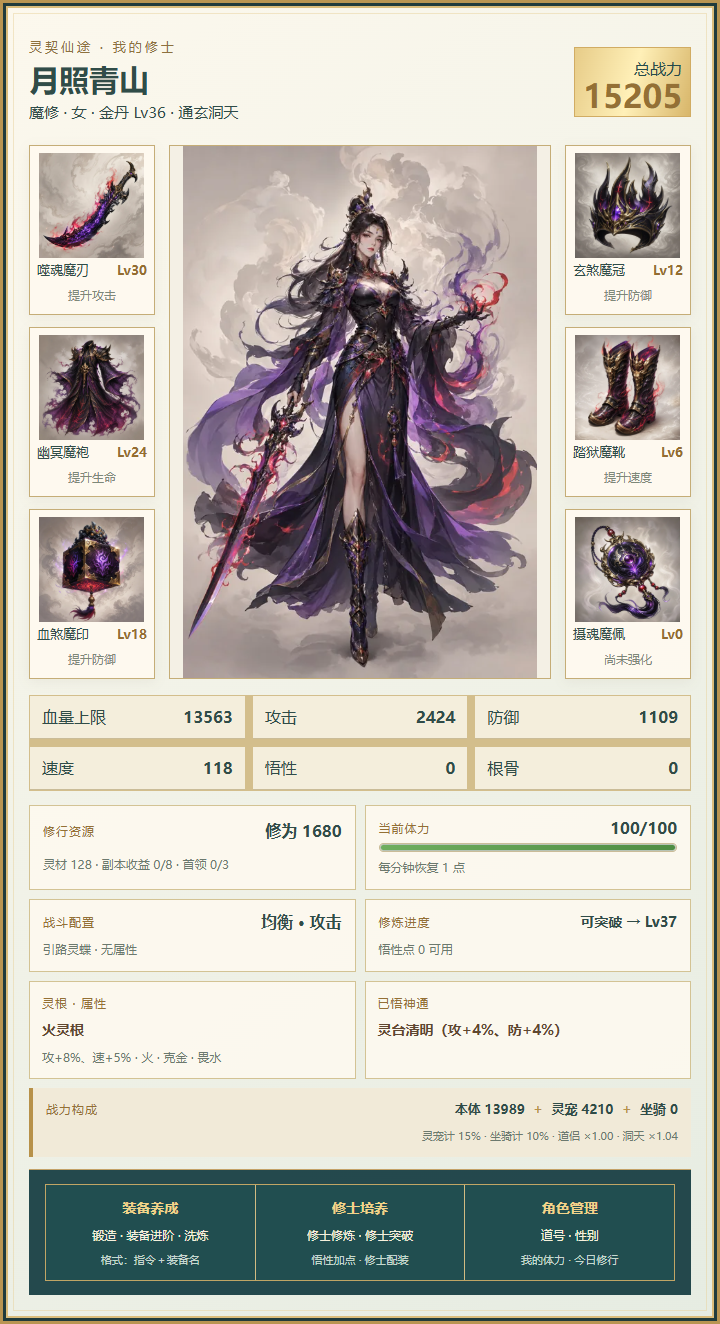
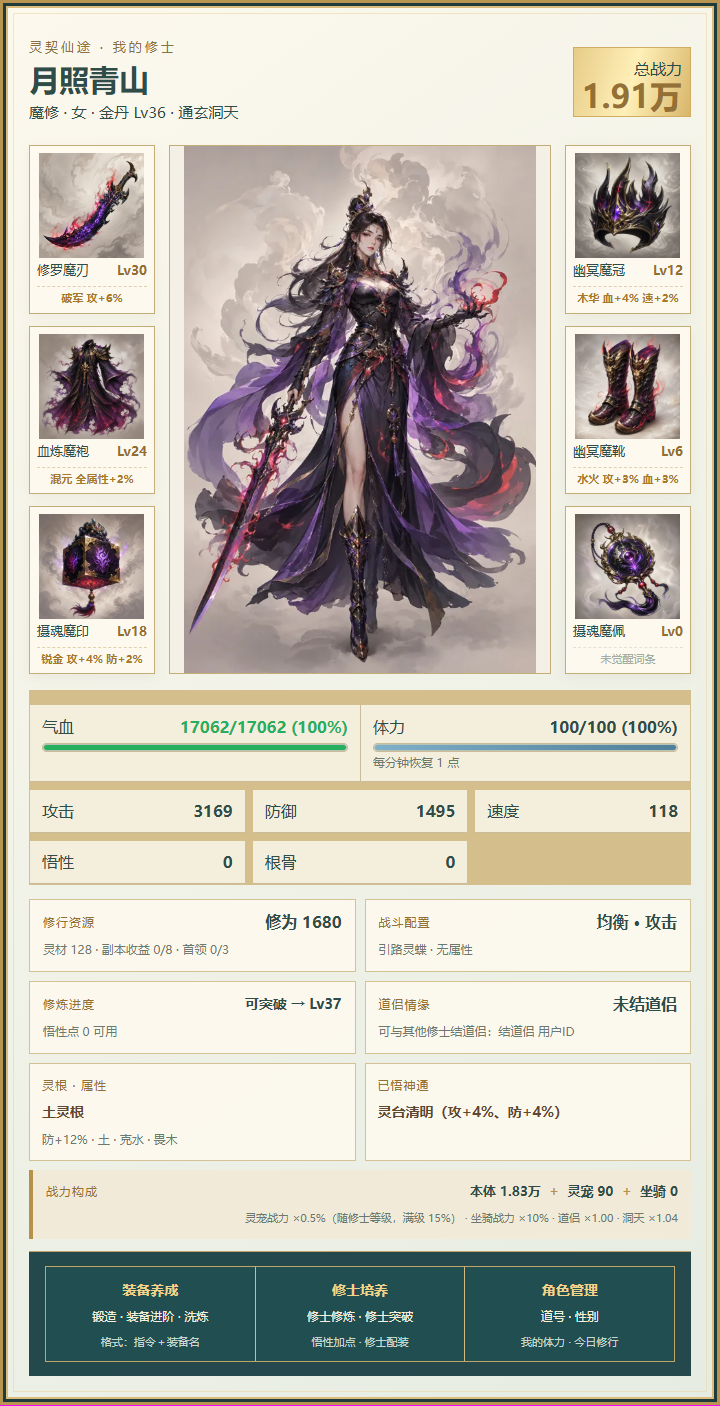
feat: 装备词条加成上修士卡（v3.10.19）
修士卡每件装备格底部新增一行词条：已觉醒显示「破军 攻+6%」（琥珀金加粗＋金色虚线上分隔），
未觉醒显示灰色「未觉醒词条」，兼作进阶引导。该行顶替原「提升X」——装备名与属性面板已表达
加什么属性，而词条加成此前只在 hero_sheet 里生效、卡面与面板都看不见。

新增 content.affix_bonus()（与 root_bonus/tactic_effect 同风格）：混元四项同值显示为
「全属性+2%」而非罗列四项。装备格可用宽度仅 110px、最长双属性词条串实测 101px，
故不加前缀图标以保证单行不折行。八种词条形态已纳入预呁工具与溢出断言。

diff --git a/petpark/adventure/card.py b/petpark/adventure/card.py
@@ -53,13 +53,19 @@ def card_html(player, key, equipment=False):
     slots = []
     profession = a.get("profession", "剑修")
     asset_prefix = GEAR_ASSET_PREFIX.get(profession, "sword")
-    for _generic_name, (slot, label) in c.GEAR.items():
+    for _generic_name, (slot, _label) in c.GEAR.items():
         rank = eq.get(slot, 0)
         tier = a.get("equip_tier", {}).get(slot, 0)
         name = c.gear_name(profession, slot, tier)
+        # 词条（装备进阶觉醒）直接挂在装备卡上：玩家看装备就能看到它加什么，不必去记词条表。
+        # 顶掉原来的「提升X」——装备名与属性面板已表达加什么，而词条加成本来无处可查。
+        affix = a.get("equip_affix", {}).get(slot)
+        bonus = c.affix_bonus(affix)
+        affix_line = (f'<small class="affix">{escape(str(affix))} {bonus}</small>' if bonus
+                      else '<small class="affix off">未觉醒词条</small>')
         slots.append(f'<div class="gear"><img src="{asset_uri(asset_prefix + "-" + slot)}" alt="{escape(name)}">'
                      f'<div class="gear-name"><span>{escape(name)}</span><b>Lv{rank}</b></div>'
-                     f'<small>{"尚未强化" if rank == 0 else "提升" + label}</small></div>')
+                     f'{affix_line}</div>')
     bonus = a.get("bonus") or {}
     # 悟性加点分配（攻/防/血/速）直接以 +N 徽标附着在各属性后，直观呈现。
     # 气血 / 体力合占「状态」一栏：两者都是「当前/上限 + 进度条」的同类信息，
@@ -152,6 +158,10 @@ def card_html(player, key, equipment=False):
     .gear img{width:108px;height:105px;object-fit:contain;display:block}
     .gear-name{display:flex;justify-content:space-between;gap:4px;font-size:13px;align-items:center;white-space:nowrap;min-width:0}
     .gear-name span{min-width:0}.gear-name b{font-size:13px;color:#946d2f;flex-shrink:0}.gear small{font-size:12px;color:#7e8879}
+    /* 词条行：金色虚线分隔；顶掉原来的「提升X」占这行位置。
+       格内可用宽度只有 110px，最长的双属性词条串已占 101px，故不加任何前缀标记。 */
+    .gear small.affix{display:block;margin-top:4px;padding-top:4px;border-top:1px dashed #ded1ae;font-size:11px;line-height:1.3;color:#a8792b;font-weight:600;overflow-wrap:anywhere}
+    .gear small.affix.off{border-top-color:#e4e2d6;color:#a4ada1;font-weight:400}
     .portrait{height:auto;position:relative;overflow:hidden;border:1px solid #c5ad77;background:#f4f0e5}
     .portrait img{width:100%;height:100%;object-fit:contain;display:block;position:absolute}
     .stats{display:grid;grid-template-columns:repeat(3,1fr);gap:8px;margin-top:16px}

diff --git a/tools/preview_cultivator.py b/tools/preview_cultivator.py
@@ -26,6 +26,10 @@ def main():
         a = player['adventure']
         a.update(name='月照青山', level=36, realm=2, heaven=2, cultivation=1680, ore=128)
         a['equipment'] = {slot: rank for rank, (slot, _) in zip((30, 24, 18, 12, 6, 0), GEAR.values())}
+        a['equip_tier'] = {slot: tier for tier, (slot, _) in zip((3, 2, 2, 1, 1, 0), GEAR.values())}
+        # 覆盖全部词条形态：单属性 / 四项同值 / 双属性 / 未觉醒（最长的「攻+4%、防+2%」用于压测换行）。
+        a['equip_affix'] = {slot: affix for affix, (slot, _) in
+                            zip(('破军', '混元', '锐金', '木华', '水火', None), GEAR.values())}
         browser = pw.chromium.launch(executable_path='C:/Program Files/Google/Chrome/Application/chrome.exe', headless=True)
         page = browser.new_page(viewport={'width': 760, 'height': 1800})
         for profession in PROFESSIONS:
@@ -37,6 +41,7 @@ def main():
                 assert page.locator('.gear').count() == 6
                 assert page.locator('img').evaluate_all('(els) => els.every(e => e.complete && e.naturalWidth > 0)')
                 assert page.locator('.gear-name').evaluate_all('(els) => els.every(e => e.scrollWidth <= e.clientWidth)')
+                assert page.locator('.gear .affix').evaluate_all('(els) => els.every(e => e.scrollWidth <= e.clientWidth)')
                 assert page.locator('.card').evaluate('(el) => el.scrollWidth <= el.clientWidth')
                 portrait = page.locator('.portrait').bounding_box()
                 assert portrait['height'] > 450

diff --git a/petpark/adventure/content.py b/petpark/adventure/content.py
@@ -234,6 +234,20 @@ def gear_command_names(profession, tiers=None):
 
 def affix_by_name(name):
     return AFFIXES.get(name)
+
+
+def affix_bonus(name):
+    """词条实际加成一句话：破军→攻+6%；混元四项同值→全属性+2%；未觉醒返回空串。"""
+    af = affix_by_name(name)
+    if not af:
+        return ""
+    keys = (("atk", "攻"), ("def", "防"), ("hp", "血"), ("speed", "速"))
+    if len(af) == len(keys) and len(set(af.values())) == 1:
+        return f"全属性+{int(af['atk'] * 100)}%"
+    # 空格而非顿号：这串主要落在修士卡的窄装备格里，省下的宽度刚好让它不折行。
+    return " ".join(f"{label}+{int(af[key] * 100)}%" for key, label in keys if af.get(key))
+
+
 MECHANICS = {
     "strike": ("蓄力重击", "第三回合重击：护盾和治疗有助于生存。"),
     "pack": ("召唤狼群", "第二回合召唤小怪：破阵会优先清理小怪。"),
